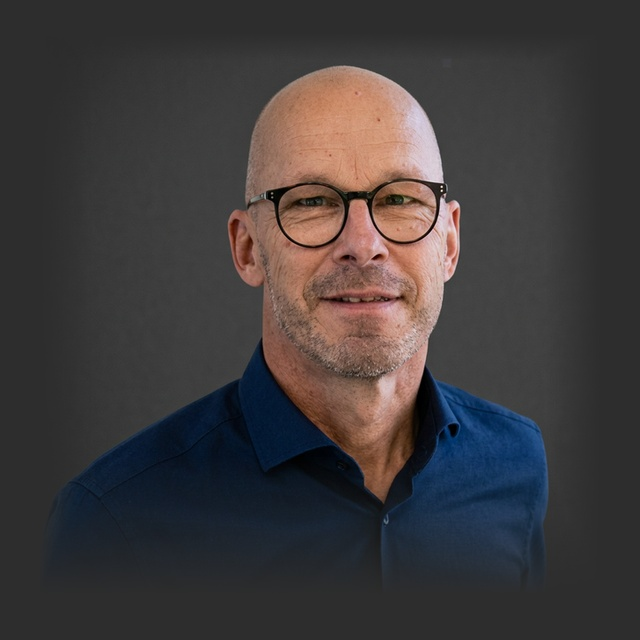
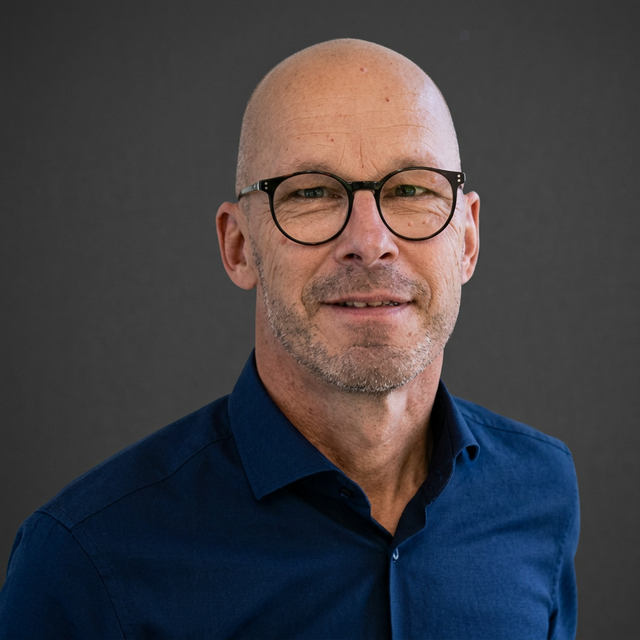
feat: Update team member photos to their latest v3 versions and corresponding references.

diff --git a/index.html b/index.html
@@ -878,7 +878,7 @@
                 <article class="team-member-card reveal stagger-3" data-member="3">
                     <div class="member-photo-container">
                         <div class="member-photo">
-                            <img alt="Frank Titzer" loading="lazy" src="assets/team/frank_titzer-AI-v2.jpg" />
+                            <img alt="Frank Titzer" loading="lazy" src="assets/team/frank_titzer-v3.jpg" />
                         </div>
                         <div class="member-overlay">
                             <span class="view-profile">Profil ansehen</span>
@@ -1000,7 +1000,7 @@
                     <div class="member-photo-container">
                         <div class="member-photo">
                             <img alt="Dr. Sarolf Sauer" loading="lazy"
-                                src="assets/team/Sarolf_Sauer_Team_500x500-AI-v2.jpg" />
+                                src="assets/team/Sarolf_Sauer_Team_500x500-v3.jpg" />
                         </div>
                         <div class="member-overlay">
                             <span class="view-profile">Profil ansehen</span>
@@ -1079,7 +1079,7 @@
                     <div class="member-photo-container">
                         <div class="member-photo">
                             <img alt="Hermann Josef Leiders" loading="lazy"
-                                src="assets/team/Harry_Leiders_team_500x500-AI-v2.jpg" />
+                                src="assets/team/Harry_Leiders_team_500x500-v3.jpg" />
                         </div>
                         <div class="member-overlay">
                             <span class="view-profile">Profil ansehen</span>
@@ -1098,7 +1098,7 @@
                 <article class="team-member-card reveal stagger-2" data-member="14">
                     <div class="member-photo-container">
                         <div class="member-photo">
-                            <img alt="Jürgen Reus" loading="lazy" src="assets/team/Juergen_Reus_AI.png" />
+                            <img alt="Jürgen Reus" loading="lazy" src="assets/team/Juergen_Reus-v3.png" />
                         </div>
                         <div class="member-overlay">
                             <span class="view-profile">Profil ansehen</span>
@@ -1174,7 +1174,7 @@
                 <article class="team-member-card reveal stagger-2" data-member="18">
                     <div class="member-photo-container">
                         <div class="member-photo">
-                            <img alt="Markus Schramm" loading="lazy" src="assets/team/Markus_Schramm_AI.png" />
+                            <img alt="Markus Schramm" loading="lazy" src="assets/team/Markus_Schramm-v3.png" />
                         </div>
                         <div class="member-overlay">
                             <span class="view-profile">Profil ansehen</span>
@@ -1194,7 +1194,7 @@
                     <div class="member-photo-container">
                         <div class="member-photo">
                             <img alt="Melanie Kubala" loading="lazy"
-                                src="assets/team/Team-Melanie-Kubala-500x500-1-AI-v2.jpg" />
+                                src="assets/team/Team-Melanie-Kubala-500x500-1-v3.jpg" />
                         </div>
                         <div class="member-overlay">
                             <span class="view-profile">Profil ansehen</span>
@@ -1214,7 +1214,7 @@
                     <div class="member-photo-container">
                         <div class="member-photo">
                             <img alt="Philipp Besch" loading="lazy"
-                                src="assets/team/Team-Phillip_Besch-500x500-1-AI-v2.jpg" />
+                                src="assets/team/Team-Phillip_Besch-500x500-1-v3.jpg" />
                         </div>
                         <div class="member-overlay">
                             <span class="view-profile">Profil ansehen</span>
@@ -1233,7 +1233,7 @@
                 <article class="team-member-card reveal stagger-1" data-member="21">
                     <div class="member-photo-container">
                         <div class="member-photo">
-                            <img alt="Uta-Barbara Vogel" loading="lazy" src="assets/team/Barbara_AI.png" />
+                            <img alt="Uta-Barbara Vogel" loading="lazy" src="assets/team/Barbara-v3.png" />
                         </div>
                         <div class="member-overlay">
                             <span class="view-profile">Profil ansehen</span>
@@ -1253,7 +1253,7 @@
                     <div class="member-photo-container">
                         <div class="member-photo">
                             <img alt="Wolfgang Hoffmann" loading="lazy"
-                                src="assets/team/Team-Foto-Wolfgang-Hoffmann-AI-v2.jpg" />
+                                src="assets/team/Team-Foto-Wolfgang-Hoffmann-v3.jpg" />
                         </div>
                         <div class="member-overlay">
                             <span class="view-profile">Profil ansehen</span>

diff --git a/js/main.js b/js/main.js
@@ -1243,7 +1243,7 @@ const teamMembersData = {
     3: {
         name: 'Frank Titzer',
         role: 'Gründer',
-        photo: 'assets/team/frank_titzer-AI-v2.jpg',
+        photo: 'assets/team/frank_titzer-v3.jpg',
         categories: ['leadership', 'change', 'communication'],
         motto: 'Stimmige Entwicklung und Klärung brauchen Zeit! Diesen Prozess präsent und mit Achtung zu begleiten, ist mein professioneller Anspruch.',
         shortDescription: [
@@ -1395,7 +1395,7 @@ const teamMembersData = {
     9: {
         name: 'Dr. Sarolf Sauer',
         role: 'Trainer & Coach',
-        photo: 'assets/team/Sarolf_Sauer_Team_500x500-AI-v2.jpg',
+        photo: 'assets/team/Sarolf_Sauer_Team_500x500-v3.jpg',
         categories: ['leadership', 'health', 'communication'],
         motto: 'Haltung und Persönlichkeit sind der Schlüssel.',
         shortDescription: [
@@ -1503,7 +1503,7 @@ const teamMembersData = {
     13: {
         name: 'Hermann Josef Leiders',
         role: 'Trainer & Coach',
-        photo: 'assets/team/Harry_Leiders_team_500x500-AI-v2.jpg',
+        photo: 'assets/team/Harry_Leiders_team_500x500-v3.jpg',
         categories: ['leadership', 'communication', 'management'],
         motto: 'Lern- und Entwicklungsräume schaffen, in denen Menschen wachsen können.',
         shortDescription: [
@@ -1529,7 +1529,7 @@ const teamMembersData = {
     14: {
         name: 'Jürgen Reus',
         role: 'Trainer & Coach',
-        photo: 'assets/team/Juergen_Reus_AI.png',
+        photo: 'assets/team/Juergen_Reus-v3.png',
         categories: ['communication', 'management'],
         motto: 'Klar strukturieren. Wirksam umsetzen.',
         shortDescription: [
@@ -1640,7 +1640,7 @@ const teamMembersData = {
     18: {
         name: 'Markus Schramm',
         role: 'Trainer & Coach',
-        photo: 'assets/team/Markus_Schramm_AI.png',
+        photo: 'assets/team/Markus_Schramm-v3.png',
         categories: ['leadership', 'change', 'communication'],
         motto: 'Kommunikation aus Leidenschaft lebhaft gestalten.',
         shortDescription: [
@@ -1665,7 +1665,7 @@ const teamMembersData = {
     19: {
         name: 'Melanie Kubala',
         role: 'Trainerin & Coach',
-        photo: 'assets/team/Team-Melanie-Kubala-500x500-1-AI-v2.jpg',
+        photo: 'assets/team/Team-Melanie-Kubala-500x500-1-v3.jpg',
         categories: ['leadership', 'change', 'communication'],
         motto: 'Wer alles tut, was er schon kann, bleibt immer das, was er schon ist.',
         shortDescription: [
@@ -1692,7 +1692,7 @@ const teamMembersData = {
     20: {
         name: 'Philipp Besch',
         role: 'Trainer & Coach',
-        photo: 'assets/team/Team-Phillip_Besch-500x500-1-AI-v2.jpg',
+        photo: 'assets/team/Team-Phillip_Besch-500x500-1-v3.jpg',
         categories: ['leadership', 'change', 'communication'],
         motto: 'Menschen in ihrer persönlichen Entfaltung zu fördern, zu fordern und im Prozess zu begleiten, ist meine Leidenschaft. Klar, wertschätzend, provokativ und lösungsorientiert.',
         shortDescription: [
@@ -1719,7 +1719,7 @@ const teamMembersData = {
     21: {
         name: 'Uta-Barbara Vogel',
         role: 'Trainerin & Coach',
-        photo: 'assets/team/Barbara_AI.png',
+        photo: 'assets/team/Barbara-v3.png',
         categories: ['leadership', 'change', 'communication'],
         motto: 'Lebensfreude, Begeisterungsfähigkeit und Neugier sind Eigenschaften, die mich auszeichnen und die mir im Beruf helfen, gemeinsam mit meinen Kunden tragfähige Lösungen zu entwickeln.',
         shortDescription: [
@@ -1747,7 +1747,7 @@ const teamMembersData = {
     22: {
         name: 'Wolfgang Hoffmann',
         role: 'Trainer & Coach',
-        photo: 'assets/team/Team-Foto-Wolfgang-Hoffmann-AI-v2.jpg',
+        photo: 'assets/team/Team-Foto-Wolfgang-Hoffmann-v3.jpg',
         categories: ['change', 'leadership'],
         motto: 'Kompetente Begleitung, klare Worte. Wirksamkeit im Fokus.',
         shortDescription: [

diff --git a/js/coaching-data.js b/js/coaching-data.js
@@ -27,7 +27,7 @@ const coachingData = {
         {
             id: 'frank-titzer',
             name: 'Frank Titzer',
-            photo: 'assets/team/frank_titzer-AI-v2.jpg',
+            photo: 'assets/team/frank_titzer-v3.jpg',
             role: 'Coach & Supervisor',
             motto: 'Klärung schafft Klarheit – auch in schwierigen Situationen.',
             description: 'Brückenbauend, bodenständig, zugewandt konfrontierend, klar in Benennung und Hinweisen. Dies geerdet im Respekt für die Einzigartigkeit individuellen Erlebens und individueller Rollenentwürfe. Im Beratungsprozess achtsam für die Balance von Geschwindigkeit und notwendiger Verlangsamung.',
@@ -125,7 +125,7 @@ const coachingData = {
         {
             id: 'hermann-josef-leiders',
             name: 'Hermann Josef Leiders',
-            photo: 'assets/team/Harry_Leiders_team_500x500-AI-v2.jpg',
+            photo: 'assets/team/Harry_Leiders_team_500x500-v3.jpg',
             role: 'Trainer & Coach',
             motto: 'Schwerpunkte der heutigen Arbeit sind Führung, Kommunikation und Umgang mit Stress und Belastung.',
             description: 'Coachees sind grundsätzlich ideenreich, kreativ und in der Lage im Gespräch eigene Ideen zum Umgang mit ihren Problemstellungen zu entwickeln.',
@@ -162,7 +162,7 @@ const coachingData = {
         {
             id: 'uta-barbara-vogel',
             name: 'Uta-Barbara Vogel',
-            photo: 'assets/team/Barbara_AI.png',
+            photo: 'assets/team/Barbara-v3.png',
             role: 'Trainerin & Coach',
             motto: 'Konsequent und mit dem Blick für Zusammenhänge, verbinde ich Direktheit mit Wertschätzung.',
             description: 'Menschen und Organisationen verfügen über zahlreiche Potenziale. Die Kunst besteht darin, verborgene Ressourcen zugänglich zu machen, Handlungsspielräume zu nutzen und Fähigkeiten zu erweitern.',
@@ -307,7 +307,7 @@ const coachingData = {
         {
             id: 'melanie-kubala',
             name: 'Melanie Kubala',
-            photo: 'assets/team/Team-Melanie-Kubala-500x500-1-AI-v2.jpg',
+            photo: 'assets/team/Team-Melanie-Kubala-500x500-1-v3.jpg',
             role: 'Trainerin & Coach',
             motto: 'Leading with Trust*Ship: Entfalte dein Führungspotenzial durch Selbstvertrauen und Kommunikation',
             description: 'Als ehemalige HR-Managerin kenne ich die Herausforderungen der Fach- und Führungskräfte und weiß genau wo der Schuh drückt. Sich selbst zu vertrauen und zu erkennen, was wirklich in mir steckt sind der Schlüssel für eine gute Führungskraft.',
@@ -381,7 +381,7 @@ const coachingData = {
         {
             id: 'wolfgang-hoffmann',
             name: 'Wolfgang Hoffmann',
-            photo: 'assets/team/Team-Foto-Wolfgang-Hoffmann-AI-v2.jpg',
+            photo: 'assets/team/Team-Foto-Wolfgang-Hoffmann-v3.jpg',
             role: 'Trainer & Coach',
             motto: 'Führung bedeutet nicht nur, Verantwortung zu tragen, sondern auch Vertrauen zu schaffen und zu erhalten.',
             description: 'Mit langjähriger Erfahrung im Management von Logistikunternehmen verstehe ich die Herausforderungen von Organisationen und Führungskräften. Entdecken Sie mit mir IHREN Weg als Führungskraft, Ihre Einzigartigkeit, Ihre Stärken.',
